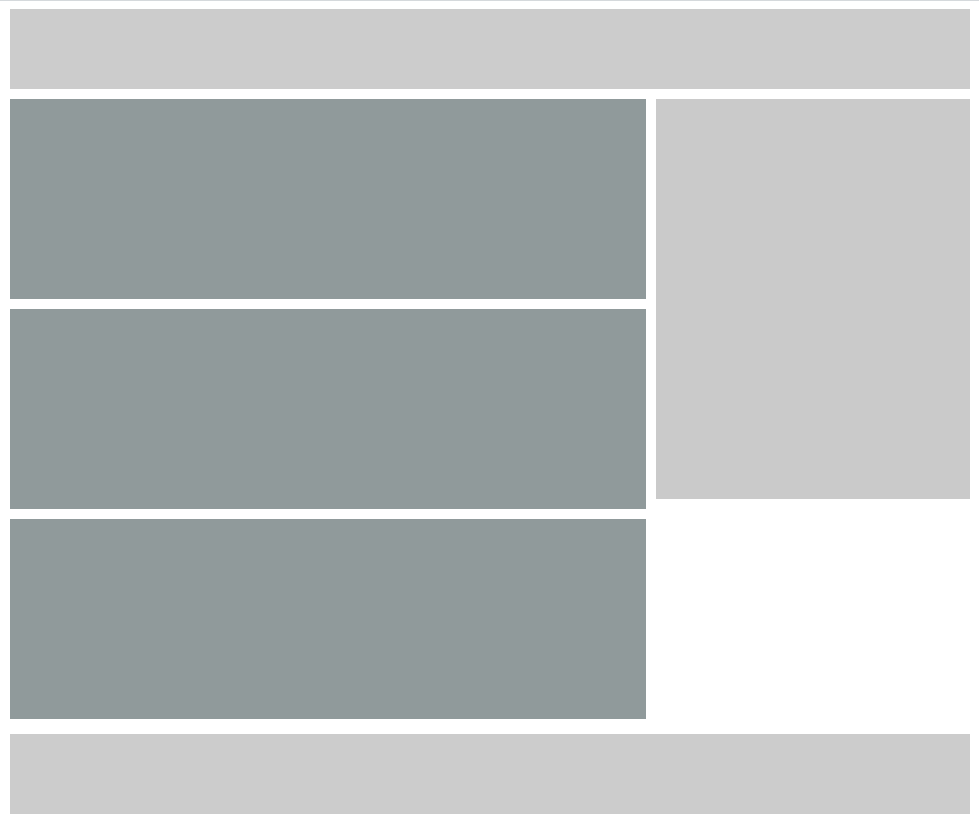
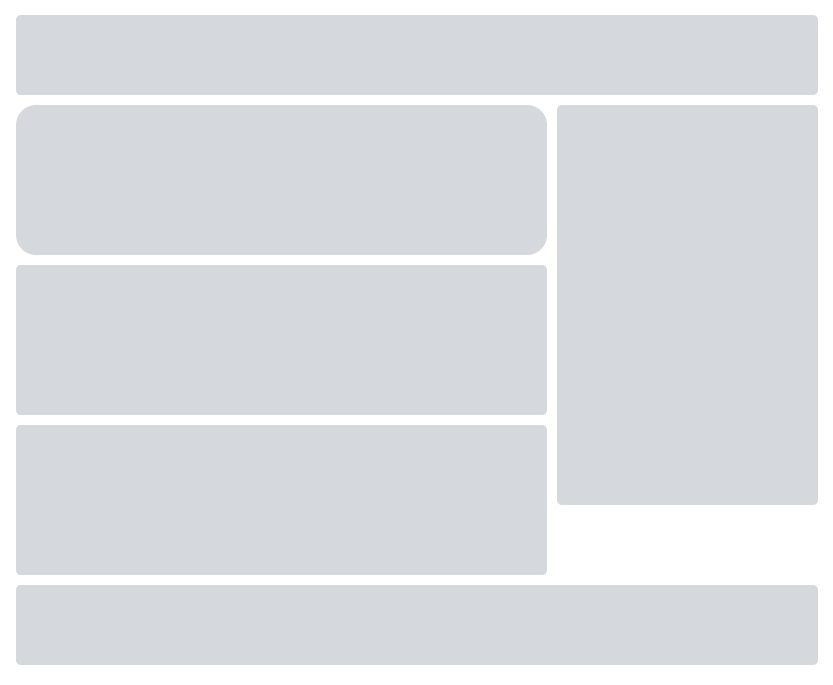
refactor + readme updated

diff --git a/lib/classes.js b/lib/classes.js
@@ -438,15 +438,7 @@ const classes = {
         none: "object-fit: none;",
         scale: {down: "object-fit: scale-down;"}
     },
-    shadow: {
-        sm: "box-shadow: 0 1px 2px 0 rgb(0 0 0 / 0.05);",
-        md: "box-shadow: 0 4px 6px -1px rgb(0 0 0 / 0.1), 0 2px 4px -2px rgb(0 0 0 / 0.1);",
-        lg: "box-shadow: 0 10px 15px -3px rgb(0 0 0 / 0.1), 0 4px 6px -4px rgb(0 0 0 / 0.1);",
-        xl: "box-shadow: 0 20px 25px -5px rgb(0 0 0 / 0.1), 0 8px 10px -6px rgb(0 0 0 / 0.1);",
-        "2xl": "box-shadow: 0 25px 50px -12px rgb(0 0 0 / 0.25);",
-        inner: "box-shadow: inset 0 2px 4px 0 rgb(0 0 0 / 0.05);",
-        none: "box-shadow: 0 0 #0000;",
-    },
+
     opacity: {
         0: "opacity: 0;",
         5: "opacity: 0.05;",
@@ -465,32 +457,39 @@ const classes = {
         100: "opacity: 1;",
     },
     shadow: {
+        sm: "box-shadow: 0 1px 2px 0 rgb(0 0 0 / 0.05);",
+        md: "box-shadow: 0 4px 6px -1px rgb(0 0 0 / 0.1), 0 2px 4px -2px rgb(0 0 0 / 0.1);",
+        lg: "box-shadow: 0 10px 15px -3px rgb(0 0 0 / 0.1), 0 4px 6px -4px rgb(0 0 0 / 0.1);",
+        xl: "box-shadow: 0 20px 25px -5px rgb(0 0 0 / 0.1), 0 8px 10px -6px rgb(0 0 0 / 0.1);",
+        "2xl": "box-shadow: 0 25px 50px -12px rgb(0 0 0 / 0.25);",
+        inner: "box-shadow: inset 0 2px 4px 0 rgb(0 0 0 / 0.05);",
+        none: "box-shadow: 0 0 #0000;",
         0: '',
-        1: '0px 2px 1px -1px rgb(0 0 0 / 5%), 0px 1px 1px 0px rgb(0 0 0 / 14%), 0px 1px 3px 0px rgb(0 0 0 / 12%)',
-        2: '0px 3px 1px -2px rgb(0 0 0 /5%), 0px 2px 2px 0px rgb(0 0 0 / 14%), 0px 1px 5px 0px rgb(0 0 0 / 12%)',
-        3: '0px 3px 3px -2px rgb(0 0 0 / 5%), 0px 3px 4px 0px rgb(0 0 0 / 14%), 0px 1px 8px 0px rgb(0 0 0 / 12%)',
-        4: '0px 2px 4px -1px rgb(0 0 0 / 5%), 0px 4px 5px 0px rgb(0 0 0 / 14%), 0px 1px 10px 0px rgb(0 0 0 / 12%)',
-        5: '0px 3px 5px -1px rgb(0 0 0 / 5%), 0px 5px 8px 0px rgb(0 0 0 / 14%), 0px 1px 14px 0px rgb(0 0 0 / 12%)',
-        6: '0px 3px 5px -1px rgb(0 0 0 / 5%), 0px 6px 10px 0px rgb(0 0 0 / 14%), 0px 1px 18px 0px rgb(0 0 0 / 12%)',
-        7: '0px 4px 5px -2px rgb(0 0 0 / 5%), 0px 7px 10px 1px rgb(0 0 0 / 14%), 0px 2px 16px 1px rgb(0 0 0 / 12%)',
-        8: '0px 5px 5px -3px rgb(0 0 0 / 5%), 0px 8px 10px 1px rgb(0 0 0 / 14%), 0px 3px 14px 2px rgb(0 0 0 / 12%)',
-        9: '0px 5px 6px -3px rgb(0 0 0 / 5%), 0px 9px 12px 1px rgb(0 0 0 / 14%), 0px 3px 16px 2px rgb(0 0 0 / 12%)',
-        10: '0px 6px 6px -3px rgb(0 0 0 / 5%), 0px 10px 14px 1px rgb(0 0 0 / 14%), 0px 4px 18px 3px rgb(0 0 0 / 12%)',
-        11: '0px 6px 7px -4px rgb(0 0 0 / 5%), 0px 11px 15px 1px rgb(0 0 0 / 14%), 0px 4px 20px 3px rgb(0 0 0 / 12%)',
-        12: '0px 7px 8px -4px rgb(0 0 0 / 5%), 0px 12px 17px 2px rgb(0 0 0 / 14%), 0px 5px 22px 4px rgb(0 0 0 / 12%)',
-        13: '0px 7px 8px -4px rgb(0 0 0 / 5%), 0px 13px 19px 2px rgb(0 0 0 / 14%), 0px 5px 24px 4px rgb(0 0 0 / 12%)',
-        14: '0px 7px 9px -4px rgb(0 0 0 / 20%), 0px 14px 21px 2px rgb(0 0 0 / 14%), 0px 5px 26px 4px rgb(0 0 0 / 12%)',
-        15: '0px 8px 9px -5px rgb(0 0 0 / 5%), 0px 15px 22px 2px rgb(0 0 0 / 14%), 0px 6px 28px 5px rgb(0 0 0 / 12%)',
-        16: '0px 8px 10px -5px rgb(0 0 0 / 5%), 0px 16px 24px 2px rgb(0 0 0 / 14%), 0px 6px 30px 5px rgb(0 0 0 / 12%)',
-        17: '0px 8px 11px -5px rgb(0 0 0 / 5%), 0px 17px 26px 2px rgb(0 0 0 / 14%), 0px 6px 32px 5px rgb(0 0 0 / 12%)',
-        18: '0px 9px 11px -5px rgb(0 0 0 / 5%), 0px 18px 28px 2px rgb(0 0 0 / 14%), 0px 7px 34px 6px rgb(0 0 0 / 12%)',
-        19: '0px 9px 12px -6px rgb(0 0 0 / 5%), 0px 19px 29px 2px rgb(0 0 0 / 14%), 0px 7px 36px 6px rgb(0 0 0 / 12%)',
-        20: '0px 10px 13px -6px rgb(0 0 0 / 5%), 0px 20px 31px 3px rgb(0 0 0 / 14%), 0px 8px 38px 7px rgb(0 0 0 / 12%)',
-        21: '0px 10px 13px -6px rgb(0 0 0 / 5%), 0px 21px 33px 3px rgb(0 0 0 / 14%), 0px 8px 40px 7px rgb(0 0 0 / 12%)',
-        22: '0px 10px 14px -6px rgb(0 0 0 / 5%), 0px 22px 35px 3px rgb(0 0 0 / 14%), 0px 8px 42px 7px rgb(0 0 0 / 12%)',
-        23: '0px 11px 14px -7px rgb(0 0 0 / 5%), 0px 23px 36px 3px rgb(0 0 0 / 14%), 0px 9px 44px 8px rgb(0 0 0 / 12%)',
-        24: '0px 11px 15px -7px rgb(0 0 0 / 5%), 0px 24px 38px 3px rgb(0 0 0 / 14%), 0px 9px 46px 8px rgb(0 0 0 / 12%)',
-        default: '0px 3px 1px -2px rgb(0 0 0 /5%), 0px 2px 2px 0px rgb(0 0 0 / 14%), 0px 1px 5px 0px rgb(0 0 0 / 12%)'
+        1: 'box-shadow: 0px 2px 1px -1px rgb(0 0 0 / 5%), 0px 1px 1px 0px rgb(0 0 0 / 14%), 0px 1px 3px 0px rgb(0 0 0 / 12%);',
+        2: 'box-shadow: 0px 3px 1px -2px rgb(0 0 0 /5%), 0px 2px 2px 0px rgb(0 0 0 / 14%), 0px 1px 5px 0px rgb(0 0 0 / 12%);',
+        3: 'box-shadow: 0px 3px 3px -2px rgb(0 0 0 / 5%), 0px 3px 4px 0px rgb(0 0 0 / 14%), 0px 1px 8px 0px rgb(0 0 0 / 12%);',
+        4: 'box-shadow: 0px 2px 4px -1px rgb(0 0 0 / 5%), 0px 4px 5px 0px rgb(0 0 0 / 14%), 0px 1px 10px 0px rgb(0 0 0 / 12%);',
+        5: 'box-shadow: 0px 3px 5px -1px rgb(0 0 0 / 5%), 0px 5px 8px 0px rgb(0 0 0 / 14%), 0px 1px 14px 0px rgb(0 0 0 / 12%);',
+        6: 'box-shadow: 0px 3px 5px -1px rgb(0 0 0 / 5%), 0px 6px 10px 0px rgb(0 0 0 / 14%), 0px 1px 18px 0px rgb(0 0 0 / 12%);',
+        7: 'box-shadow: 0px 4px 5px -2px rgb(0 0 0 / 5%), 0px 7px 10px 1px rgb(0 0 0 / 14%), 0px 2px 16px 1px rgb(0 0 0 / 12%);',
+        8: 'box-shadow: 0px 5px 5px -3px rgb(0 0 0 / 5%), 0px 8px 10px 1px rgb(0 0 0 / 14%), 0px 3px 14px 2px rgb(0 0 0 / 12%);',
+        9: 'box-shadow: 0px 5px 6px -3px rgb(0 0 0 / 5%), 0px 9px 12px 1px rgb(0 0 0 / 14%), 0px 3px 16px 2px rgb(0 0 0 / 12%);',
+        10: 'box-shadow: 0px 6px 6px -3px rgb(0 0 0 / 5%), 0px 10px 14px 1px rgb(0 0 0 / 14%), 0px 4px 18px 3px rgb(0 0 0 / 12%);',
+        11: 'box-shadow: 0px 6px 7px -4px rgb(0 0 0 / 5%), 0px 11px 15px 1px rgb(0 0 0 / 14%), 0px 4px 20px 3px rgb(0 0 0 / 12%);',
+        12: 'box-shadow: 0px 7px 8px -4px rgb(0 0 0 / 5%), 0px 12px 17px 2px rgb(0 0 0 / 14%), 0px 5px 22px 4px rgb(0 0 0 / 12%);',
+        13: 'box-shadow: 0px 7px 8px -4px rgb(0 0 0 / 5%), 0px 13px 19px 2px rgb(0 0 0 / 14%), 0px 5px 24px 4px rgb(0 0 0 / 12%);',
+        14: 'box-shadow: 0px 7px 9px -4px rgb(0 0 0 / 20%), 0px 14px 21px 2px rgb(0 0 0 / 14%), 0px 5px 26px 4px rgb(0 0 0 / 12%);',
+        15: 'box-shadow: 0px 8px 9px -5px rgb(0 0 0 / 5%), 0px 15px 22px 2px rgb(0 0 0 / 14%), 0px 6px 28px 5px rgb(0 0 0 / 12%);',
+        16: 'box-shadow: 0px 8px 10px -5px rgb(0 0 0 / 5%), 0px 16px 24px 2px rgb(0 0 0 / 14%), 0px 6px 30px 5px rgb(0 0 0 / 12%);',
+        17: 'box-shadow: 0px 8px 11px -5px rgb(0 0 0 / 5%), 0px 17px 26px 2px rgb(0 0 0 / 14%), 0px 6px 32px 5px rgb(0 0 0 / 12%);',
+        18: 'box-shadow: 0px 9px 11px -5px rgb(0 0 0 / 5%), 0px 18px 28px 2px rgb(0 0 0 / 14%), 0px 7px 34px 6px rgb(0 0 0 / 12%);',
+        19: 'box-shadow: 0px 9px 12px -6px rgb(0 0 0 / 5%), 0px 19px 29px 2px rgb(0 0 0 / 14%), 0px 7px 36px 6px rgb(0 0 0 / 12%);',
+        20: 'box-shadow: 0px 10px 13px -6px rgb(0 0 0 / 5%), 0px 20px 31px 3px rgb(0 0 0 / 14%), 0px 8px 38px 7px rgb(0 0 0 / 12%);',
+        21: 'box-shadow: 0px 10px 13px -6px rgb(0 0 0 / 5%), 0px 21px 33px 3px rgb(0 0 0 / 14%), 0px 8px 40px 7px rgb(0 0 0 / 12%);',
+        22: 'box-shadow: 0px 10px 14px -6px rgb(0 0 0 / 5%), 0px 22px 35px 3px rgb(0 0 0 / 14%), 0px 8px 42px 7px rgb(0 0 0 / 12%);',
+        23: 'box-shadow: 0px 11px 14px -7px rgb(0 0 0 / 5%), 0px 23px 36px 3px rgb(0 0 0 / 14%), 0px 9px 44px 8px rgb(0 0 0 / 12%);',
+        24: 'box-shadow: 0px 11px 15px -7px rgb(0 0 0 / 5%), 0px 24px 38px 3px rgb(0 0 0 / 14%), 0px 9px 46px 8px rgb(0 0 0 / 12%);',
+        default: 'box-shadow: 0px 3px 1px -2px rgb(0 0 0 /5%), 0px 2px 2px 0px rgb(0 0 0 / 14%), 0px 1px 5px 0px rgb(0 0 0 / 12%;)'
      },
 }
  

diff --git a/lib/getValueClass.js b/lib/getValueClass.js
@@ -94,7 +94,7 @@ const allClass = {
     rows: (value) => "grid-auto-rows:" + scaleContent[value] + ";",
   },
   //scale2
-  rounded: value => value === "full" ?  "border-radius: "  +  "999px" +  ";" :  "border-radius: " + scale2[value] + ";",
+  rounded: value => value === "full" ?  "border-radius: 999px ;" :  "border-radius: " + scale2[value] + ";",
   p: value => "padding: " + scale2[value] + ";",
   pt: value => "padding-top: " + scale2[value] + ";",
   pr: value => "padding-right: " + scale2[value] + ";",
@@ -133,13 +133,13 @@ const allClass = {
     x: value => "margin-left: " + scale2[value] + ";",
     y: value => "margin-top: " + scale2[value] + ";",
   },
-  // gap: value => "gap: " + scale2[value] + ";",
+  gap: value => "gap: " + scale2[value] + ";",
   
-  gap: {
-    base: value => "gap: " + scale2[value] + ";",
-    x: value => "column-gap: " + scale2[value] + ";",
-    y: value => "row-gap:" + scale2[value] + ";",
-  },
+  // gap: {
+  //   base: value => "gap: " + scale2[value] + ";",
+  //   x: value => "column-gap: " + scale2[value] + ";",
+  //   y: value => "row-gap:" + scale2[value] + ";",
+  // },
   translate: {
     x: value => "transform: translateX(" + scale2[value] + ");",
     y: value => "transform: translateY(" + scale2[value] + ");",
@@ -225,24 +225,36 @@ const getValueClass = (str) => {
       let negativo = ""
       if(str.startsWith("-")) negativo = "-"
       let res = str.split("-").filter( str => str != "")
-
+     
       if(res.length === 1 ) return classUnit[res[0]] || ""
-      else if ( res.length > 1 && all.hasOwnProperty(res.at(res.length - 1)) ) {
-        let value = negativo + res.pop() 
-        if (res.length === 1  ) return allClass[res[0]](value)
-        else if (res.length === 2 ) return allClass[res[0]][res[1]](value)
-        else if (res.length === 3 ) return allClass[res[0]][res[1]][res[2]](value)
-        else if (res.length === 4 ) return allClass[res[0]][res[1]][res[2]][res[3]](value)
-        else if (res.length === 5 ) return allClass[res[0]][res[1]][res[2]][res[3]][res[4]](value)
-        else if (res.length === 6 ) return allClass[res[0]][res[1]][res[2]][res[3]][res[4]][res[5]](value)
-        else return ""
+      else if ( res.length > 1 && allClass.hasOwnProperty(res[0]) ) {
+        let value = negativo + res.pop()
+        let object = allClass
+        for(let i = 0; i <= res.length -1; i++) object[res[i]] && (object = object[res[i]])
+        return object(value)
       }
-      else if (res.length === 2 ) return classes[res[0]][res[1]] 
-      else if (res.length === 3 ) return classes[res[0]][res[1]][res[2]] 
-      else if (res.length === 4 ) return classes[res[0]][res[1]][res[2]][res[3]] 
-      else if (res.length === 5 ) return classes[res[0]][res[1]][res[2]][res[3]][res[4]] 
-      else if (res.length === 6 ) return classes[res[0]][res[1]][res[2]][res[3]][res[4]][res[5]]
-      else "" 
+      else{
+        
+        let object = classes
+        for(let i = 0; i <= res.length -1; i++) {
+          if(object[res[i]]){
+            object = object[res[i]]
+          }
+          else{
+            console.warn(str +" does not exits")
+            return ""
+          }
+        }
+        return object
+      }
+      
+
+      // else if (res.length === 2 ) return classes[res[0]][res[1]] 
+      // else if (res.length === 3 ) return classes[res[0]][res[1]][res[2]] 
+      // else if (res.length === 4 ) return classes[res[0]][res[1]][res[2]][res[3]] 
+      // else if (res.length === 5 ) return classes[res[0]][res[1]][res[2]][res[3]][res[4]] 
+      // else if (res.length === 6 ) return classes[res[0]][res[1]][res[2]][res[3]][res[4]][res[5]]
+      // else "" 
     }
   }
 

diff --git a/src/App.jsx b/src/App.jsx
@@ -38,11 +38,28 @@ createTheme({
 
 
 function App() {
-
-  
+  const [state, setState] = useState(false)
   return (
     <>
-      <Box atmClass="h:100px w:100px bg-red500 rounded "></Box>
+      <Box 
+        atmClass="grid grid-cols-3 gap:10px m-4"
+        areas={`
+          'header header header'
+          'main main aside'
+          'footer footer footer'
+        `}
+      >
+        <AtomicContext.Provider value={`rounded ${state ? "bg:#808B96" : "bg:#D5D8DC"}`}>
+          <Header atmClass="h:80px  area:header"/>
+          <Main atmClass="flex flex-wrap gap:10px area:main bg:none .first{ rounded-5 } ">
+            <Box atmClass="h:150px w-full" className='first'/>
+            <Box atmClass="h:150px w-full"/>
+            <Box atmClass="h:150px w-full"/>
+          </Main>
+          <Aside atmClass="h:400px area:aside"/>
+          <Footer atmClass="h:80px area:footer"/>
+        </AtomicContext.Provider>
+      </Box>
     </> 
   )
 }

diff --git a/lib/getProperties.jsx b/lib/getProperties.jsx
@@ -1,12 +1,13 @@
 import {getValueClasses, Theme} from './main'
 
-const getProperties = ({ atmPure, atmClass, areas, size, contextStyle }) => {
+const getProperties = ({ atmPure, atmClass, areas, size, contextStyle, bgImg }) => {
     return `
         box-sizing: border-box;
         ${contextStyle ? getValueClasses(contextStyle) : ''}
         ${atmPure ? atmPure : ""}
         ${areas ? `grid-template-areas: ${areas};` : ""}
         ${size ? `max-width: ${Theme.maxWidths[size]};` : ""}
+        ${bgImg ?  `baclground-image: ${bgImg};` : ""}
         ${atmClass ? getValueClasses(atmClass) : ""}
     `
 }

diff --git a/README.md b/README.md
@@ -18,7 +18,7 @@ yarn add atomic-library-core
 This is little demo about containers, all of them are basically the same component, the difference is that each one return a sematic tag
 ```jsx
 import {
-  Box as Wrapper,
+  Box,
   Header,
   Main,
   Aside,
@@ -27,28 +27,30 @@ import {
 } from 'atomic-library-core'
 
 function App() {
-return (
-  <Wrapper 
-      grid
-      gap="10px"
-      size="lg" 
-      cols="1fr 1fr 1fr" 
-      areas="
+  const [state, setState] = useState(false)
+  return (
+    <>
+      <Box 
+        atmClass="grid grid-cols-3 gap:10px m-4"
+        areas={`
           'header header header'
           'main main aside'
           'footer footer footer'
-      "
-    >
-      <Header  h='80px' bg="#ccc" span="header"/>
-      <Main  flex flexWrap gap="10px" span="main">
-        <Box  h='150px' bg="#909A9B" />
-        <Box  h='150px' bg="#909A9B" />
-        <Box  h='150px' bg="#909A9B" />
-      </Main>
-      <Aside  h='400px' bg="#CACACA" m="0" span="aside"/>
-      <Footer  h='80px' bg="#ccc" span="footer"/>
-  </Wrapper>
-)
+        `}
+      >
+        <AtomicContext.Provider value={`rounded ${state ? "bg:#808B96" : "bg:#D5D8DC"}`}>
+          <Header atmClass="h:80px  area:header"/>
+          <Main atmClass="flex flex-wrap gap:10px area:main bg:none .first{ rounded-5 } ">
+            <Box atmClass="h:150px w-full" className='first'/>
+            <Box atmClass="h:150px w-full"/>
+            <Box atmClass="h:150px w-full"/>
+          </Main>
+          <Aside atmClass="h:400px area:aside"/>
+          <Footer atmClass="h:80px area:footer"/>
+        </AtomicContext.Provider>
+      </Box>
+    </> 
+  )
 }
 
 export default App
